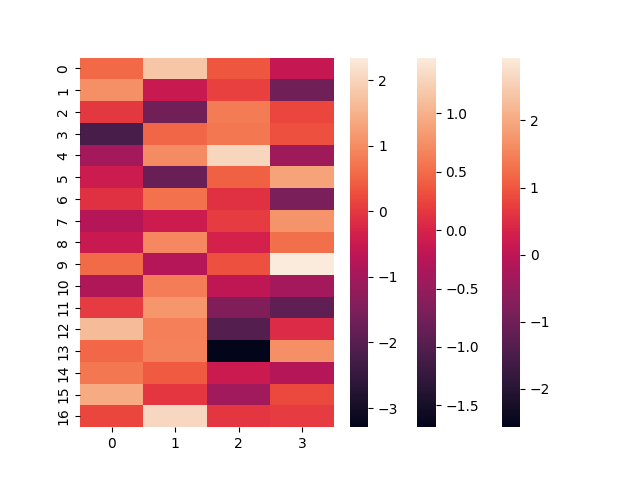
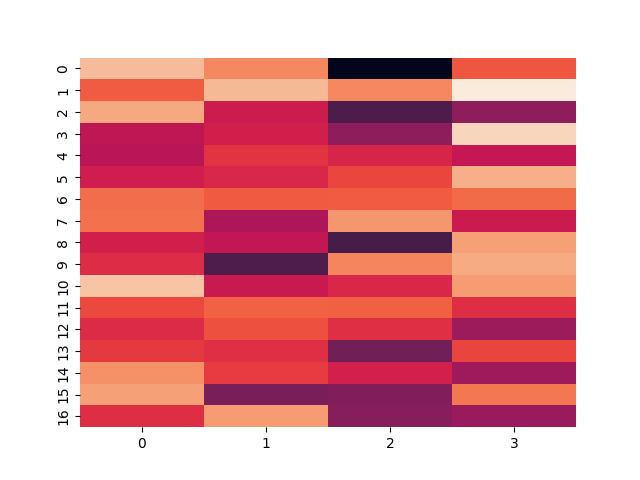
Update todo-list

diff --git a/visualizer/src/heatmap.py b/visualizer/src/heatmap.py
@@ -15,7 +15,7 @@ class Heatmap(QWidget):
         self.full_path = os.path.join(self.path, self.filename)
 
         # Create the heatmap
-        ax = sns.heatmap(data)
+        ax = sns.heatmap(data, cbar=False)
         fig = ax.get_figure()
         fig.savefig(self.full_path)
 

diff --git a/visualizer/src/heatmap_list.py b/visualizer/src/heatmap_list.py
@@ -20,6 +20,7 @@ class HeatmapList(QListWidget):
 
             item = QListWidgetItem()
             icon = QIcon()
+            #Need to find a way to clear QIcon
             icon.addPixmap(heatmap.get_pixmap())
             item.setIcon(icon)
             self.addItem(item)

diff --git a/README.md b/README.md
@@ -1,4 +1,4 @@
 # TODO
 
-* save heatmaps using datetime format / filename dynamically created
-* 
+* Add filters to the heatmap list view
+https://askcodez.com/comment-creer-des-filtres-pour-qtableview-en-pyqt.html
